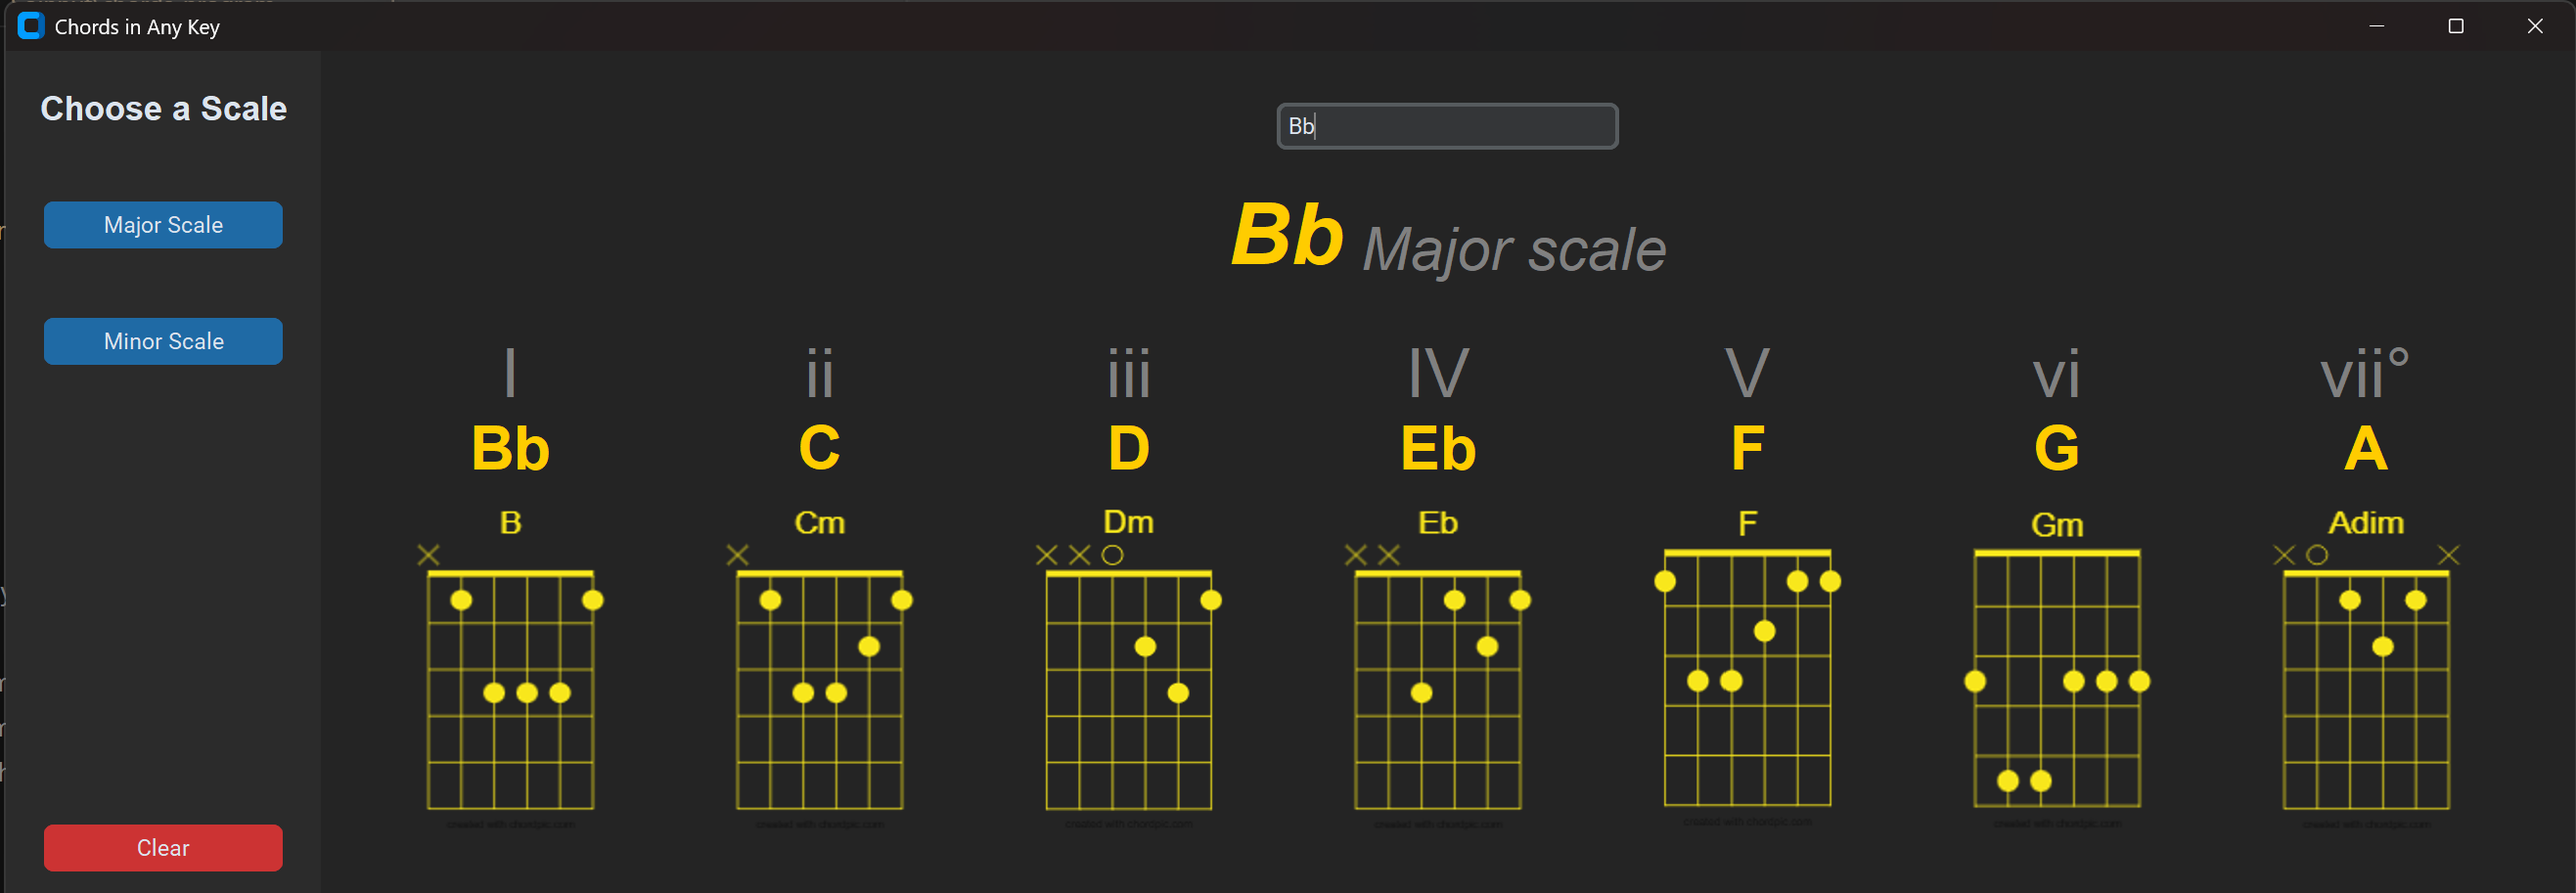
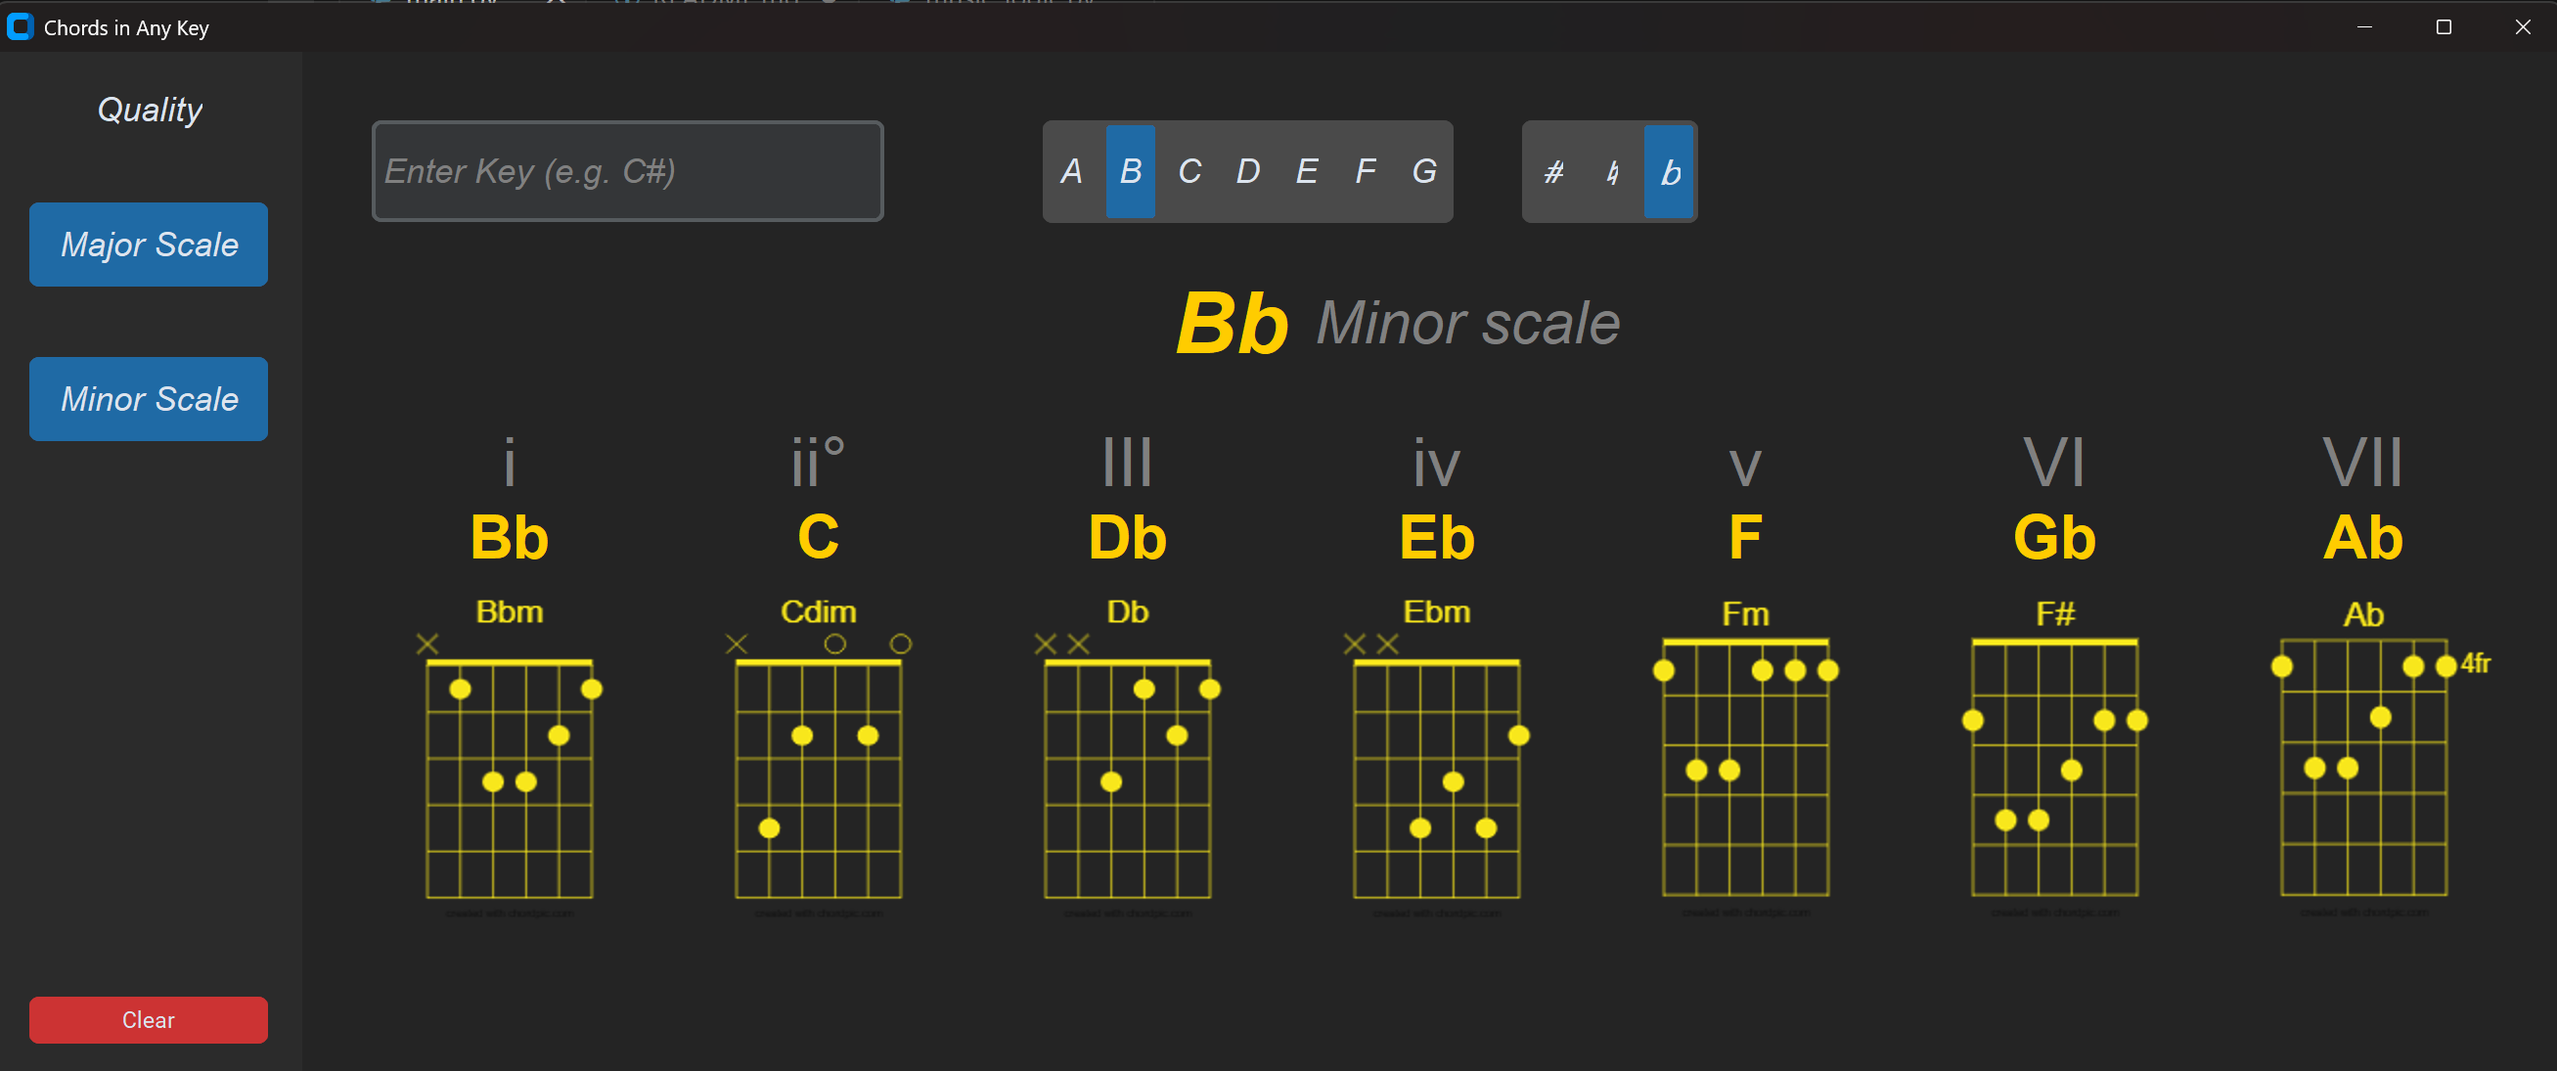
feat: Add buttons key selection buttons
-add buttons C-B

-add buttons for sharps and flats

feat: Clear text input after loading notes to not mess with new button inputs

fix: fonts, button size, input box

fix: clear button not clearing the screen

diff --git a/main.py b/main.py
@@ -4,7 +4,7 @@ import customtkinter as ctk
 import os
 import sys
 from PIL import Image
-from music_logic import get_scale, MAJOR_DEGREES, MAJOR_QUALITIES, MINOR_DEGREES, MINOR_QUALITIES
+from music_logic import get_scale, MAJOR_DEGREES, MAJOR_QUALITIES, MINOR_DEGREES, MINOR_QUALITIES, LETTERS
 
 
 class GuitarChordApp(ctk.CTk):
@@ -15,13 +15,17 @@ class GuitarChordApp(ctk.CTk):
             self.base_dir = sys._MEIPASS
         else:
             self.base_dir = os.path.dirname(os.path.abspath(__file__))
+        
         self.assets_path = os.path.join(self.base_dir, "assets", "chords")
         fallback_path = os.path.join(self.assets_path, "image_coming_soon.png")
         fallback_data = Image.open(fallback_path)
         self.fallback_image = ctk.CTkImage(light_image=fallback_data, dark_image=fallback_data, size=(160, 200))
 
+        self.symbol_font = ("Segoe UI Symbol", 20, "bold", "italic")
+        self.standard_font = ("Archivo Black", 20, "italic")
+
         self.title("Chords in Any Key")
-        self.geometry("1500x500")
+        self.geometry("1500x600")
 
         self.grid_columnconfigure(1, weight=1)
         self.grid_rowconfigure(0, weight=1)
@@ -30,16 +34,16 @@ class GuitarChordApp(ctk.CTk):
         self.sidebar.grid(row=0, column=0, sticky="nsew")
         
         self.sidebar.grid_columnconfigure(0, weight=1)
-
         self.sidebar.grid_rowconfigure(5, weight=1)
         
-        self.title_label = ctk.CTkLabel(self.sidebar, text="Choose a Scale", font=("Helvetica", 20, "bold"))
+        
+        self.title_label = ctk.CTkLabel(self.sidebar, text="Quality", font=self.standard_font)
         self.title_label.grid(row=0, column=0, padx=20, pady=20)
 
-        self.major_btn = ctk.CTkButton(self.sidebar, text="Major Scale", command=lambda:self.run_logic("major"))
+        self.major_btn = ctk.CTkButton(self.sidebar, text="Major Scale", font=self.standard_font, height=50, command=lambda:self.run_logic("major"))
         self.major_btn.grid(row=1, column=0, padx=20, pady=20)
 
-        self.minor_btn = ctk.CTkButton(self.sidebar, text="Minor Scale", command=lambda:self.run_logic("minor"))
+        self.minor_btn = ctk.CTkButton(self.sidebar, text="Minor Scale", font=self.standard_font, height = 50, command=lambda:self.run_logic("minor"))
         self.minor_btn.grid(row=2, column=0, padx=20, pady=20)
 
         self.clear_btn = ctk.CTkButton(self.sidebar, text="Clear", command=self.clear_all, fg_color="#CC3333", hover_color="#990000")
@@ -48,35 +52,53 @@ class GuitarChordApp(ctk.CTk):
         self.main_frame = ctk.CTkFrame(self, fg_color="transparent")
         self.main_frame.grid(row=0, column=1, padx=20, pady=20, sticky="nsew")
 
-        self.entry = ctk.CTkEntry(self.main_frame, placeholder_text="Enter Key (e.g. C#)", placeholder_text_color="gray", width=200)
-        self.entry.pack(pady=10)
+        self.entry = ctk.CTkEntry(self.main_frame, placeholder_text="Enter Key (e.g. C#)", placeholder_text_color="gray", font=self.standard_font, width=300, height=60)
+        self.entry.grid(row=1,column=0, padx=20, pady=20, sticky="w")
+
+        self.btn_container = ctk.CTkFrame(self.main_frame, fg_color="transparent", width=200, height=60)
+        self.btn_container.grid(row=1, column=2, sticky="w")
+        self.note_seg = ctk.CTkSegmentedButton(self.btn_container, height=60, values=LETTERS, font=self.standard_font, selected_hover_color="#FFCC00")
+        self.note_seg.grid(row=0, column=0, padx=20, pady=10, sticky="w")
+        self.note_seg.set("C") 
+        
+        self.acc_seg = ctk.CTkSegmentedButton(self.btn_container, height=60, values=["#", "♮", "b"], font=self.symbol_font, selected_hover_color="#FFCC00")
+        self.acc_seg.grid(row=0, column=1, padx=20, pady=10, sticky="w")
+        self.acc_seg.set("♮")
 
         self.title_container = ctk.CTkFrame(self.main_frame, fg_color="transparent")
-        self.title_container.pack(pady=10)
+        self.title_container.grid(column=2,pady=10)
 
         self.note_label = ctk.CTkLabel(self.title_container, text="--", font=("Archivo Black", 50, "bold", "italic"), text_color="#FFCC00")
-        self.note_label.grid(row=0, column=0, padx=5)
+        self.note_label.grid(row=0, column=0, padx=10, sticky="w")
 
         self.type_label = ctk.CTkLabel(self.title_container, text="", font=("Archivo Black", 35, "italic"), text_color="gray")
-        self.type_label.grid(row=0, column=1, padx=5, sticky="s")
+        self.type_label.grid(row=0, column=1, padx=5, sticky="w")
 
-        self.scale_container = ctk.CTkFrame(self.main_frame, fg_color="transparent")
-        self.scale_container.pack(pady=20, fill="x")
+        self.scale_container = ctk.CTkFrame(self.main_frame, fg_color="transparent", width=1265)
+        self.scale_container.grid(row=5, column=0, columnspan=20, padx=10, pady=20, sticky="w")
 
         self.degree_labels = [] 
         self.note_labels = []
 
         self.after(100, lambda: self.focus_set()) 
 
+
     def run_logic(self, mode):
         user_input = self.entry.get().strip()
-       
+
         if user_input:
             scale_list = get_scale(user_input, mode)
-            if scale_list:
-                self.display_scale(scale_list, mode)
-                self.note_label.configure(text=user_input.title())
-                self.type_label.configure(text=f"{mode.title()} scale")
+        else:
+            note = self.note_seg.get()
+            acc = self.acc_seg.get() if self.acc_seg.get() != "♮" else ""
+            user_input = f"{note}{acc}".strip()
+            scale_list = get_scale(user_input, mode)
+
+        if scale_list:
+            self.display_scale(scale_list, mode)
+            self.note_label.configure(text=user_input.title())
+            self.type_label.configure(text=f"{mode.title()} scale")
+            self.clear_entry()
 
     def display_scale(self, scale_notes, mode):
         for widget in self.scale_container.winfo_children():
@@ -106,16 +128,20 @@ class GuitarChordApp(ctk.CTk):
             return self.fallback_image
             
     def clear_all(self):
+        self.clear_entry()
+        self.note_label.configure(text="--")
+        self.type_label.configure(text="")
+        self.clear_scale_display()
+
+    def clear_scale_display(self):
+        for widget in self.scale_container.winfo_children():
+            widget.destroy() 
+
+    def clear_entry(self):
         self.entry.delete(0, "end")
         current_placeholder = self.entry.cget("placeholder_text")
         self.entry.configure(placeholder_text=current_placeholder)
         self.focus()
-        self.note_label.configure(text="--")
-        self.type_label.configure(text="")
-
-    def clear_scale_display(self):
-        for widget in self.scale_container.winfo_children():
-            widget.destroy()     
 
 if __name__ == "__main__":
     app = GuitarChordApp()
